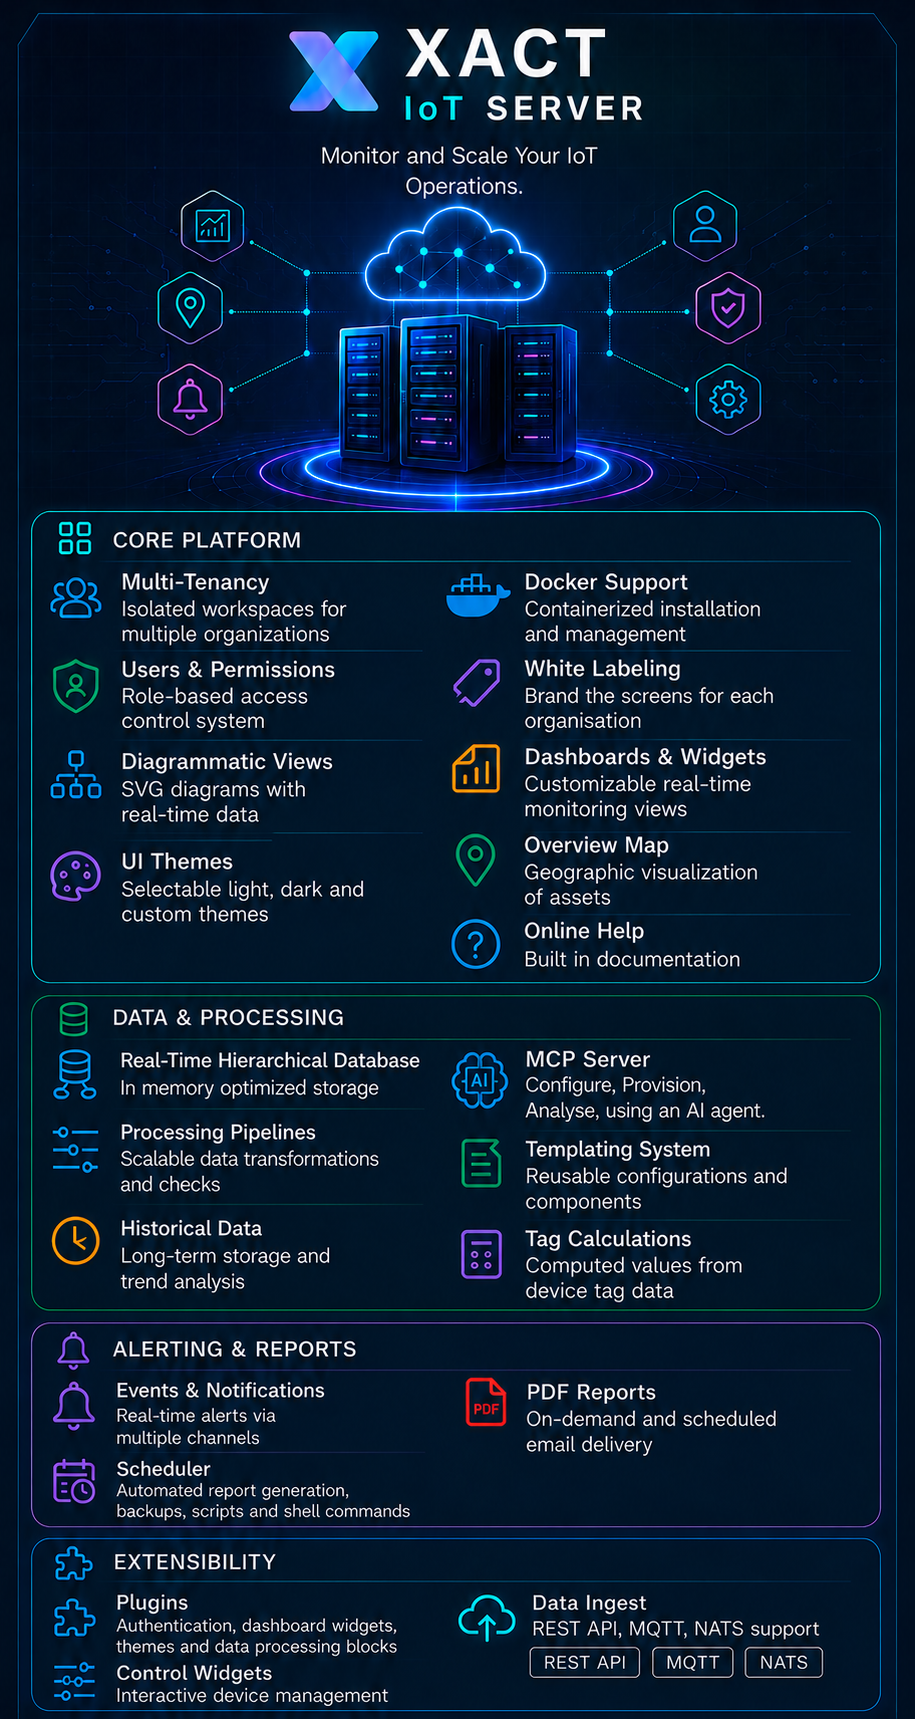
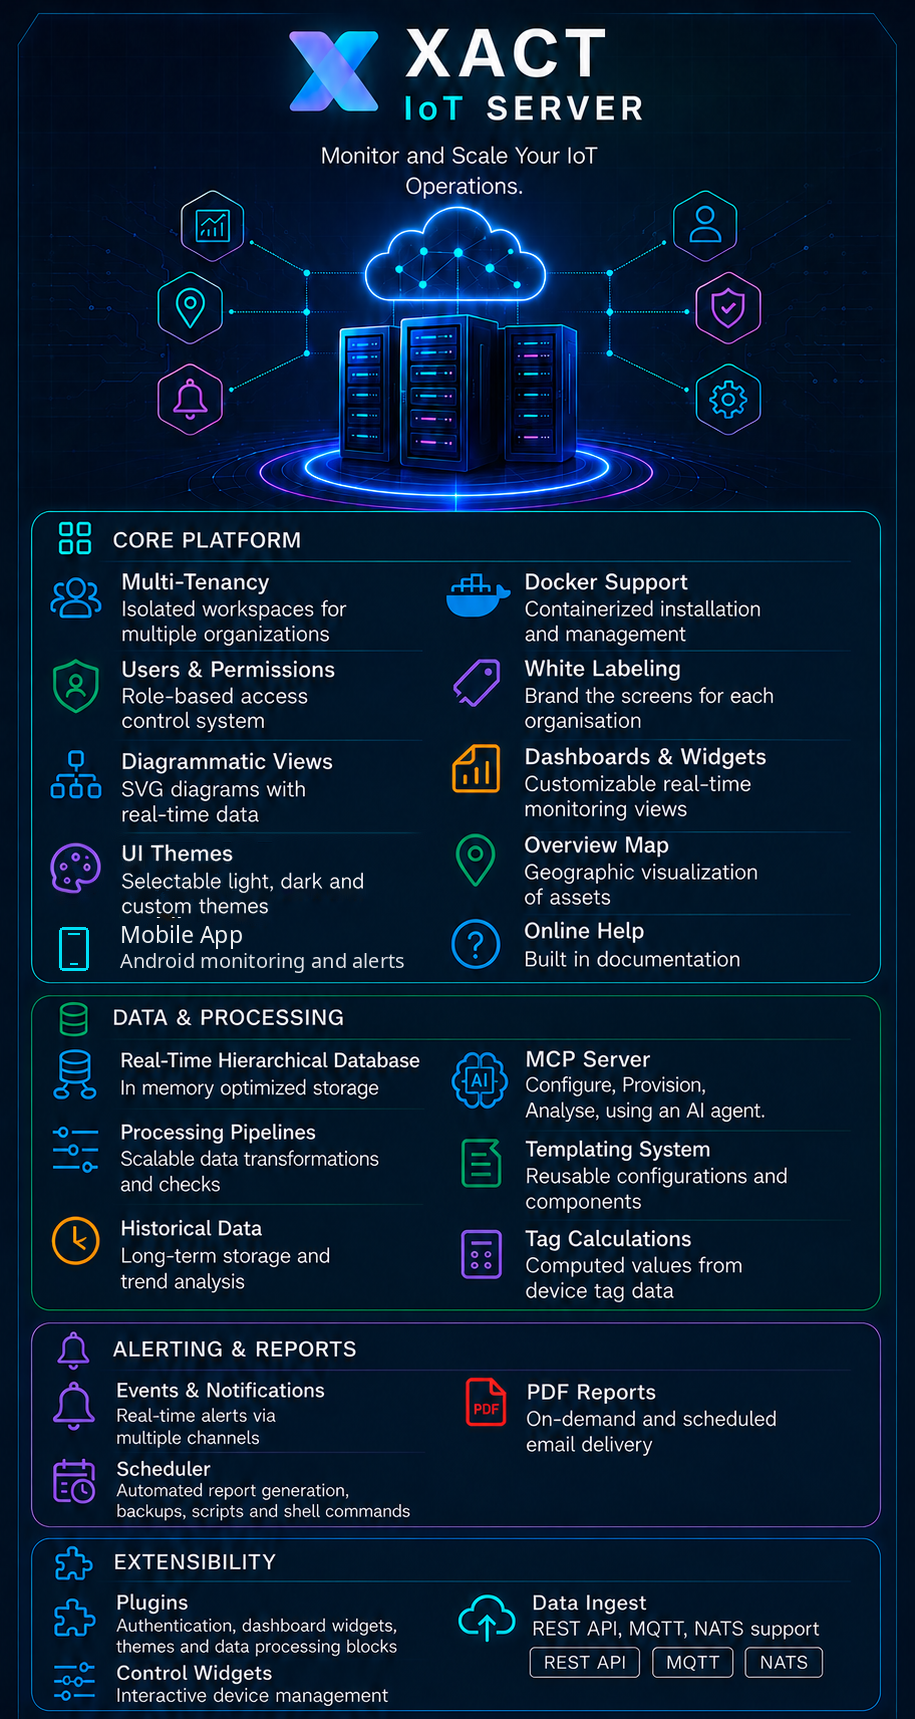
Update README for mobile app

Changed region(s): [[0.0306, 0.4933, 0.3978, 0.5858], [0.3672, 0.555, 0.4284, 0.5858]]

diff --git a/README.md b/README.md
@@ -5,7 +5,7 @@
 
 ![XACT Features](screenshots/xact-features.png)
 
-XACT is a industrial IoT platform designed for real-time monitoring, data acquisition, and process automation. XACT handles everything from hobby projects to lab deployments to installations with hundreds or even thousands of devices.
+XACT is an industrial IoT platform designed for real-time monitoring, data acquisition, and process automation. XACT handles everything from hobby projects to lab deployments to installations with hundreds or even thousands of devices. Its self-hosted Android mobile app gives operators secure access to devices, events, dashboards, reports, and push notifications away from the web console.
 
 ## Table of Contents
 
@@ -26,6 +26,8 @@ XACT is a industrial IoT platform designed for real-time monitoring, data acquis
   - [3.5. SVG diagrams](#35-svg-diagrams)
   - [3.6. UI Themes](#36-ui-themes)
   - [3.7. Online Help](#37-online-help)
+  - [3.8. XACT Mobile App](#38-xact-mobile-app)
+  - [3.9. MCP Server](#39-mcp-server)
 - [4. Data & Processing](#4-data--processing)
   - [4.1. Real-Time Hierarchical Database](#41-real-time-hierarchical-database)
   - [4.2. Templating System](#42-templating-system)
@@ -195,7 +197,10 @@ Adapt the interface to your preferences with selectable themes including light a
 ### 3.7. Online Help
 Online documentation ensures help is always available where you need it.
 
-### 3.8. MCP server
+### 3.8. XACT Mobile App
+XACT Mobile is a self-hosted Android companion app for in-house operators. It provides mobile access to permitted devices and live KPIs, recent events, dashboards, PDF reports, organisation switching, and Firebase Cloud Messaging notifications. The Android APK is included in deployment packages and can be downloaded securely from the XACT web interface without publishing the app through the Google Play Store.
+
+### 3.9. MCP Server
 Use your favorite AI Agent to configure and monitor the XACT server. Prompt to manage the tags or tag calculations or to generate custom reports.
 
 ---
@@ -222,7 +227,7 @@ Long-term storage with efficient compression enables trend analysis across month
 ## 5. Alerting & Reports
 
 ### 5.1. Events & Notifications
-Real-time alerting across multiple channels. Configure threshold-based alarms, state transitions, and complex event conditions. Currently notifications are sent via email and/or Telegram.
+Real-time alerting across multiple channels. Configure threshold-based alarms, state transitions, and complex event conditions. Notifications can be delivered through email, Telegram, and Firebase Cloud Messaging to the XACT Android app.
 
 ### 5.2. PDF Reports
 Generate professional PDF reports on-demand or on schedule. Include real-time data, historical trends, charts, and analysis. Automate delivery via email distribution lists.
